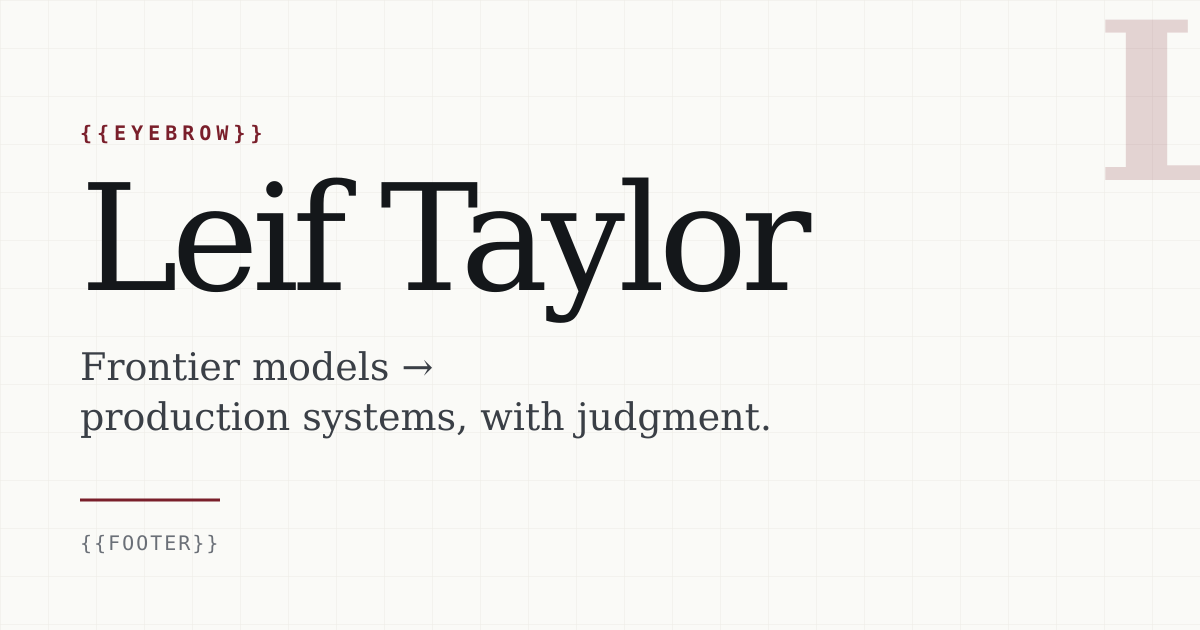
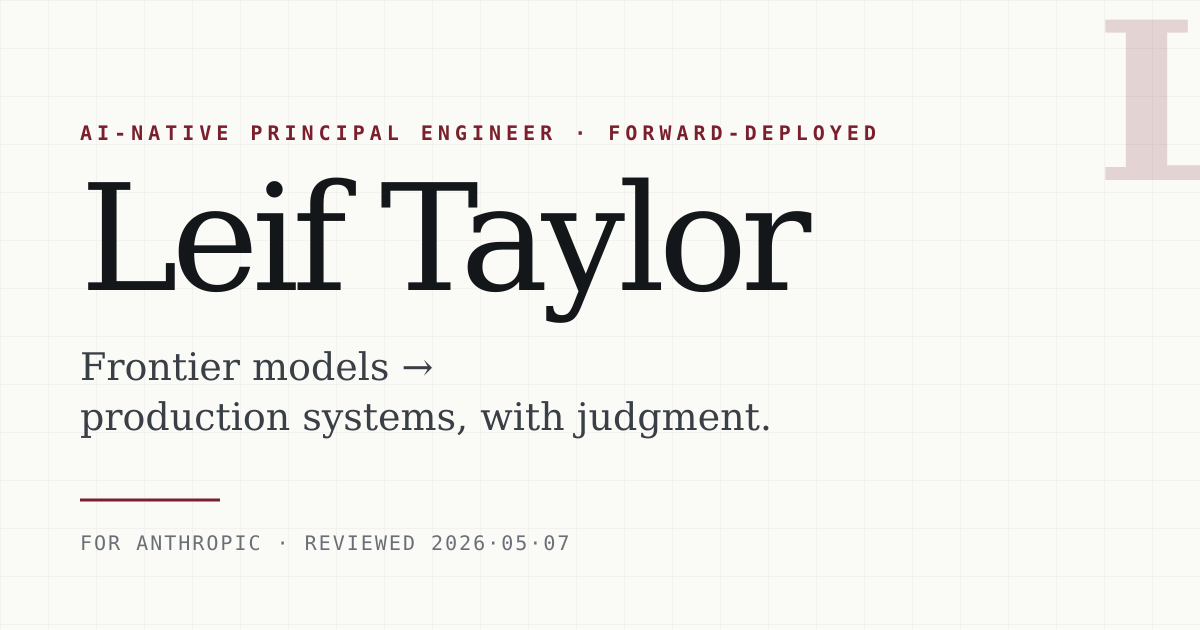
Fix OG image template: replaceAll over replace
The SVG template documents each token in an HTML comment next to the
<text> node that consumes it (e.g. `<!-- Mono eyebrow ({{EYEBROW}} =
titleStack uppercased) -->`). String.prototype.replace with a string
pattern only substitutes the first occurrence — which was the comment.
The visible <text> kept the literal {{EYEBROW}} / {{FOOTER}} tokens,
visible to anyone previewing the URL in Discord / Slack / iMessage.

{{NAME}} / {{TAGLINE_1}} / {{TAGLINE_2}} were unaffected because they
have no comment duplicates.

Switching to replaceAll covers both occurrences. Comments are stripped
by the SVG renderer so the duplicate substitution is harmless.

Regenerated all 4 OG PNGs (base + 3 variants) — each grew ~7-8KB
because the actual eyebrow text now renders.

diff --git a/scripts/build-og-image.ts b/scripts/build-og-image.ts
@@ -45,12 +45,17 @@ function svgForSlug(template: string, resume: Resume, company: string | null): s
     ? `FOR ${company.toUpperCase()}  ·  ${reviewed}`
     : `${siteHostLabel(m.siteUrl).toUpperCase()}  ·  ${reviewed}`;
 
+  // `replaceAll` (not `replace`) — the SVG template documents tokens in
+  // HTML comments next to the `<text>` nodes that consume them
+  // (e.g. `<!-- Mono eyebrow ({{EYEBROW}} = ...) -->`). With single
+  // `replace` only the first occurrence (the comment) is substituted,
+  // leaving the visible `<text>` rendered as the literal token.
   return template
-    .replace('{{EYEBROW}}', xmlEscape(eyebrow))
-    .replace('{{NAME}}', xmlEscape(m.name))
-    .replace('{{TAGLINE_1}}', xmlEscape(tagline1))
-    .replace('{{TAGLINE_2}}', xmlEscape(tagline2))
-    .replace('{{FOOTER}}', xmlEscape(footer));
+    .replaceAll('{{EYEBROW}}', xmlEscape(eyebrow))
+    .replaceAll('{{NAME}}', xmlEscape(m.name))
+    .replaceAll('{{TAGLINE_1}}', xmlEscape(tagline1))
+    .replaceAll('{{TAGLINE_2}}', xmlEscape(tagline2))
+    .replaceAll('{{FOOTER}}', xmlEscape(footer));
 }
 
 /** Output PNG path: global → public/og-image.png; variant → public/<slug>/og-image.png. */
